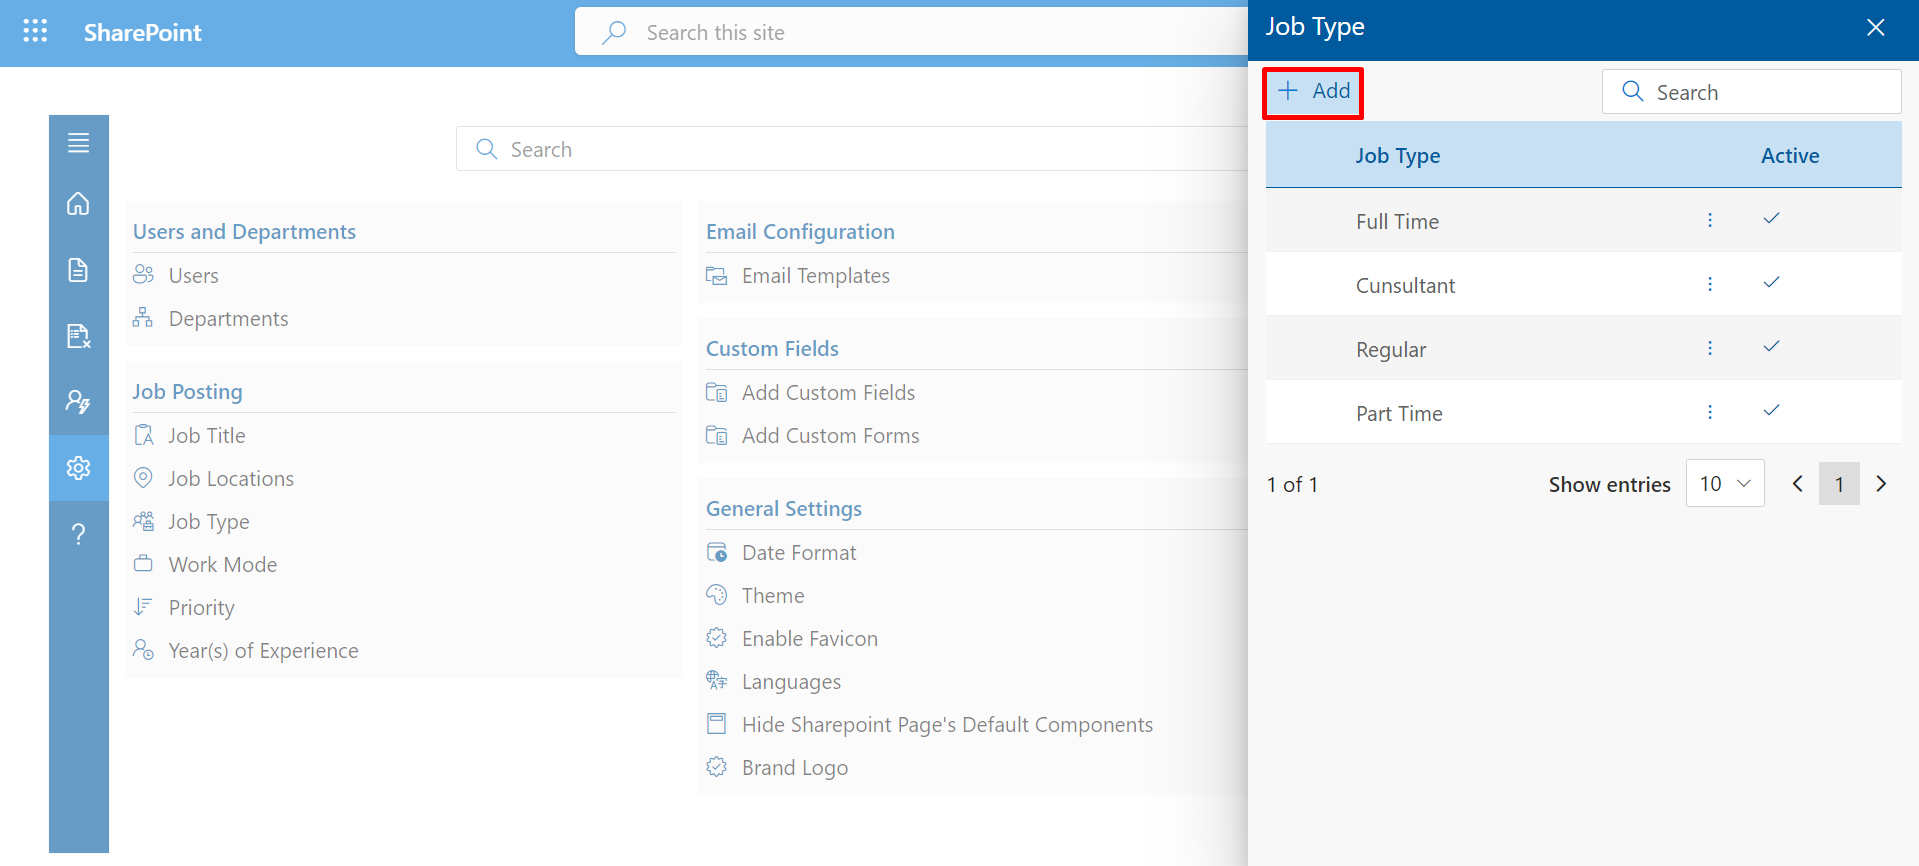
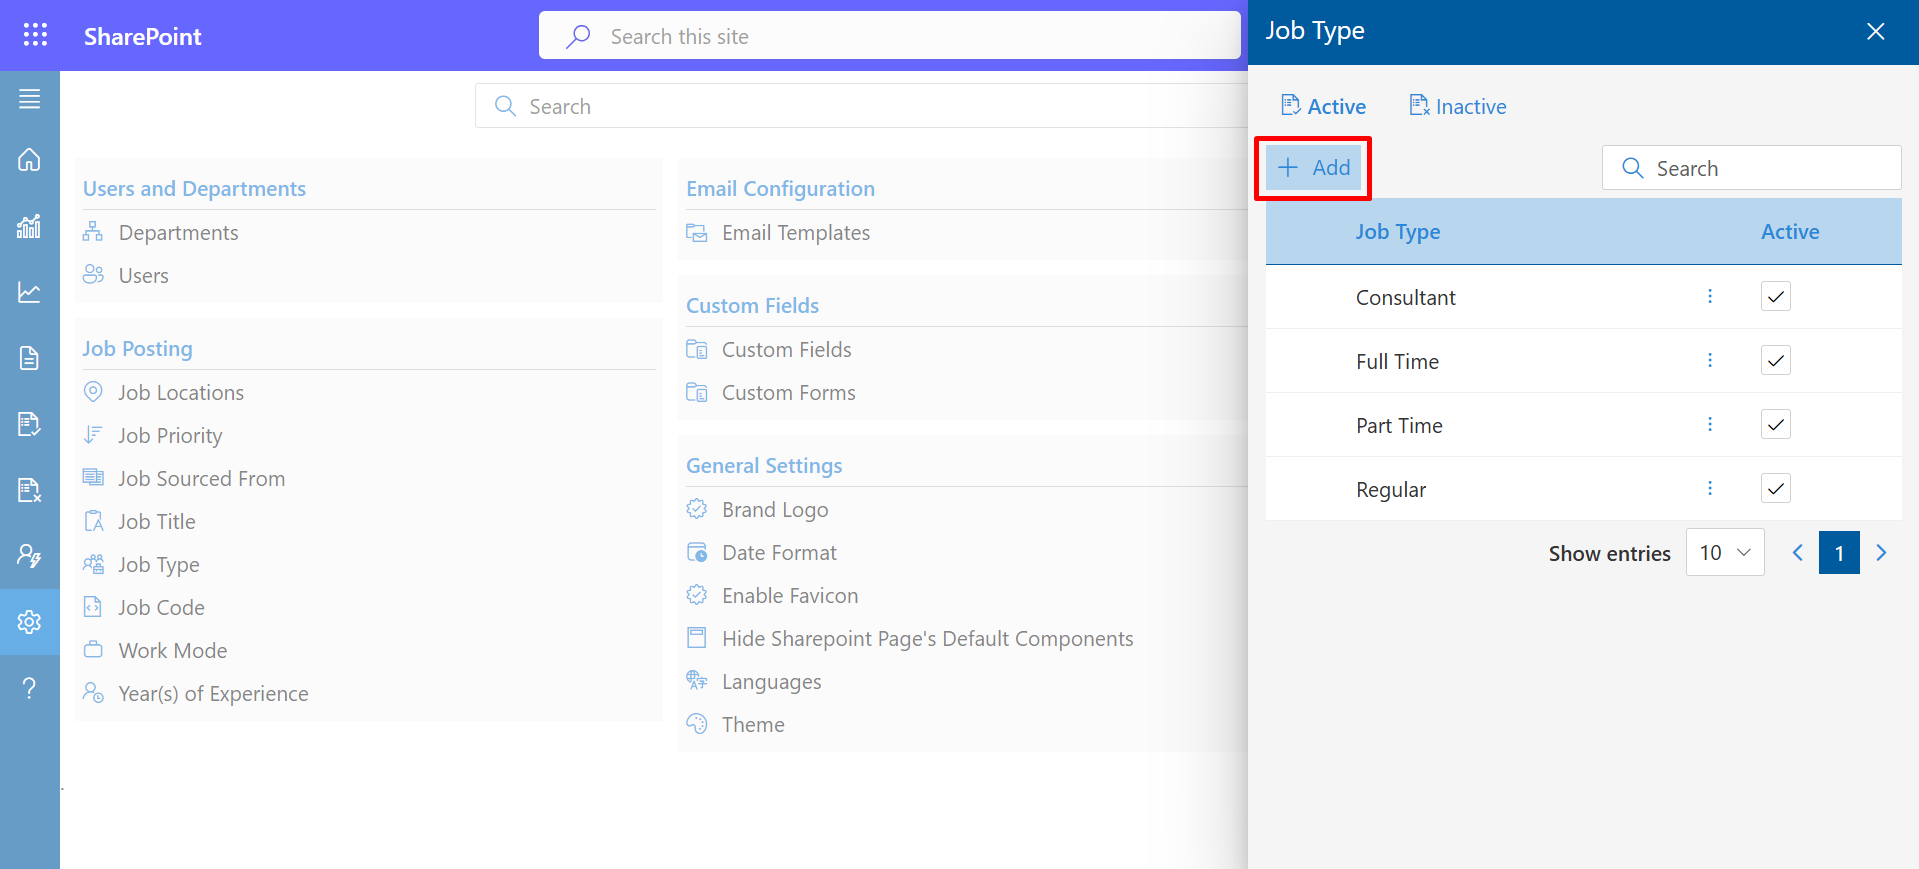
robotofile

diff --git a/RM365/modern/admin/settings/Job-Posting/index.html b/RM365/modern/admin/settings/Job-Posting/index.html
@@ -286,8 +286,8 @@ active">
                                         <i class="fas fa-link" style="font-size:12px; color:lightgray;"></i></a>
                                 </h2>
                                 <p>Click the +Add Job Title Button to add Job Title.</p><br>
-                                <div><img src="jobtitle.png" onclick="openModal('jobtitle.png')" alt="RM365" width="100%"
-                                        height="auto">
+                                <div><img src="jobtitle.png" onclick="openModal('jobtitle.png')" alt="RM365"
+                                        width="100%" height="auto">
                                 </div> <br>
                                 <p>To add a user, fill out the form and click the "Save" button to save it.</p><br>
                                 <div><img src="3.png" onclick="openModal('3.png')" alt="RM365" width="100%"
@@ -299,32 +299,43 @@ active">
                                 </div> <br>
                                 <p>You can see the job titles you have added, which will impact every job title. You can
                                     select a job title from the dropdown menu.</p> <br>
-                                <div><img src="DropdownJobTitle.png" onclick="openModal('DropdownJobTitle.png')" alt="RM365" width="100%"
+                                <div><img src="DropdownJobTitle.png" onclick="openModal('DropdownJobTitle.png')"
+                                        alt="RM365" width="100%" height="auto">
+                                </div> <br>
+                                <p>
+                                    User can select multiple job titles within the application and mark them as
+                                    inactive.</p> <br>
+                                <div><img src="inactiveJobtitle.png" onclick="openModal('inactiveJobtitle.png')"
+                                        alt="RM365" width="100%" height="auto">
+                                </div> <br>
+                                <p>After the user marks the job titles as inactive, they will be displayed in the
+                                    inactive tab.</p> <br>
+                                <div><img src="inactiveSectionJobtitle.png"
+                                        onclick="openModal('inactiveSectionJobtitle.png')" alt="RM365" width="100%"
                                         height="auto">
                                 </div> <br>
-                                <!-- <p>Inactive</p> <br>
-                                <div><img src="inactiveJobtitle.png" onclick="openModal('inactiveJobtitle.png')" alt="RM365" width="100%"
-                                        height="auto">
+                                <p>If the user wants to activate an inactive job title, they can check the checkbox for
+                                    that job title, and it will become active.</p> <br>
+                                <div><img src="inactiveCheckbox.png" onclick="openModal('inactiveCheckbox.png')"
+                                        alt="RM365" width="100%" height="auto">
                                 </div> <br>
-                                <p>Inactive Section</p> <br>
-                                <div><img src="inactiveSectionJobtitle.png" onclick="openModal('inactiveSectionJobtitle.png')" alt="RM365" width="100%"
-                                        height="auto">
+                                <p>The same job title will now appear in the active tab.</p> <br>
+                                <div><img src="backtoactiveJobtitle.png" onclick="openModal('backtoactiveJobtitle.png')"
+                                        alt="RM365" width="100%" height="auto">
                                 </div> <br>
-                                <p>Checkbox tik</p> <br>
-                                <div><img src="inactiveCheckbox.png" onclick="openModal('inactiveCheckbox.png')" alt="RM365" width="100%"
-                                        height="auto">
-                                </div> <br>
-                                <p>back to active Job title</p> <br>
-                                <div><img src="backtoactiveJobtitle.png" onclick="openModal('backtoactiveJobtitle.png')" alt="RM365" width="100%"
-                                        height="auto">
+                                <p>When a user adds a job title, a toggle is provided. If the user turns it on, the job
+                                    title will appear in the active tab. If the toggle is off, the job title will move
+                                    to the inactive tab. By default, the toggle remains on.</p> <br>
+                                <div><img src="AddtimeToogleJobti.png" onclick="openModal('AddtimeToogleJobti.png')"
+                                        alt="RM365" width="100%" height="auto">
                                 </div> <br>
 
-                            </ul> -->
+                            </ul>
 
 
 
                         </div>
-                        <div class="bg-light p-4 remove-padding common-scroll" id="job-Location">
+                        <!-- <div class="bg-light p-4 remove-padding common-scroll" id="job-Location">
                             <ul class=page-list>
                                 <h2 id="_dashboards"><a class="header-icon-link highlight" href=#>Job Location
                                         <i class="fas fa-link" style="font-size:12px; color:lightgray;"></i></a>
@@ -351,7 +362,7 @@ active">
 
 
 
-                        </div>
+                        </div> -->
 
                         <div class="bg-light p-4 remove-padding common-scroll" id="job-type">
                             <ul class=page-list>
@@ -363,13 +374,39 @@ active">
                                         height="auto">
                                 </div> <br>
                                 <p>To add a user, fill out the form and click the "Save" button to save it.</p><br>
-                                <div><img src="9.png" onclick="openModal('9.png')" alt="RM365" width="100%"
+                                <div><img src="JobType.png" onclick="openModal('JobType.png')" alt="RM365" width="100%"
                                         height="auto">
                                 </div> <br>
                                 <p>You can see the job type you have added, which will impact every job title. You can
                                     select a job type from the dropdown menu.</p> <br>
                                 <div><img src="18.png" onclick="openModal('18.png')" alt="RM365" width="100%"
                                         height="auto">
+                                </div> <br>
+                                <p>User can select multiple job types within the application and mark them as inactive.
+                                </p> <br>
+                                <div><img src="inactiveJobType.png" onclick="openModal('inactiveJobType.png')"
+                                        alt="RM365" width="100%" height="auto">
+                                </div> <br>
+                                <p>After the user marks the job types as inactive, they will be displayed in the
+                                    inactive tab.</p> <br>
+                                <div><img src="inactiveTabJobType.png" onclick="openModal('inactiveTabJobType.png')"
+                                        alt="RM365" width="100%" height="auto">
+                                </div> <br>
+                                <p>If the user wants to activate an inactive job type, they can check the checkbox for
+                                    that job type, and it will become active.</p> <br>
+                                <div><img src="checkboxJobType.png" onclick="openModal('checkboxJobType.png')"
+                                        alt="RM365" width="100%" height="auto">
+                                </div> <br>
+                                <p>
+                                    The same job type will now appear in the active tab.</p> <br>
+                                <div><img src="backtoactiveJobtype.png" onclick="openModal('backtoactiveJobtype.png')"
+                                        alt="RM365" width="100%" height="auto">
+                                </div> <br>
+                                <p>When a user adds a job type, a toggle is provided. If the user turns it on, the job
+                                    type will appear in the active tab. If the toggle is off, the job type will move
+                                    to the inactive tab. By default, the toggle remains on.</p> <br>
+                                <div><img src="AddtimeToogleJobTy.png" onclick="openModal('AddtimeToogleJobTy.png')"
+                                        alt="RM365" width="100%" height="auto">
                                 </div> <br>
 
 
